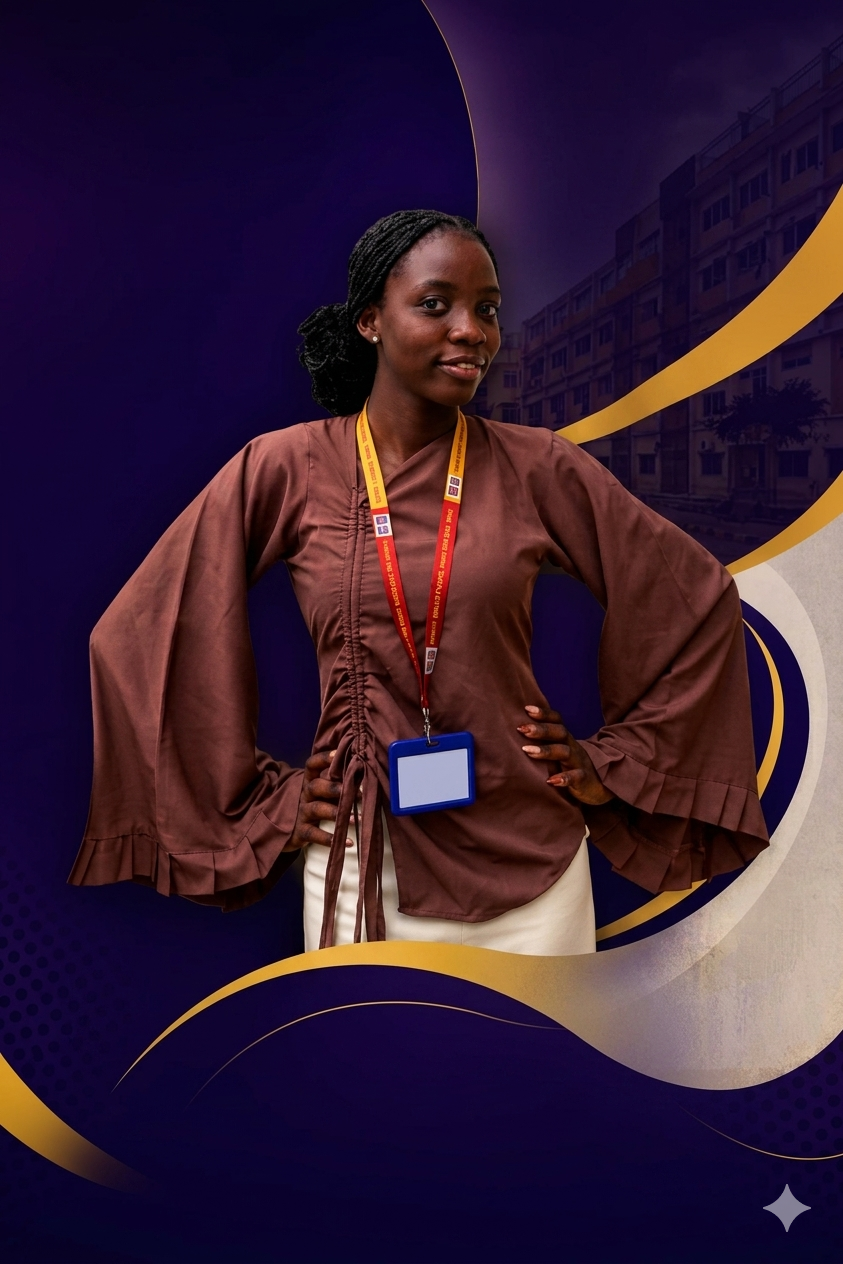
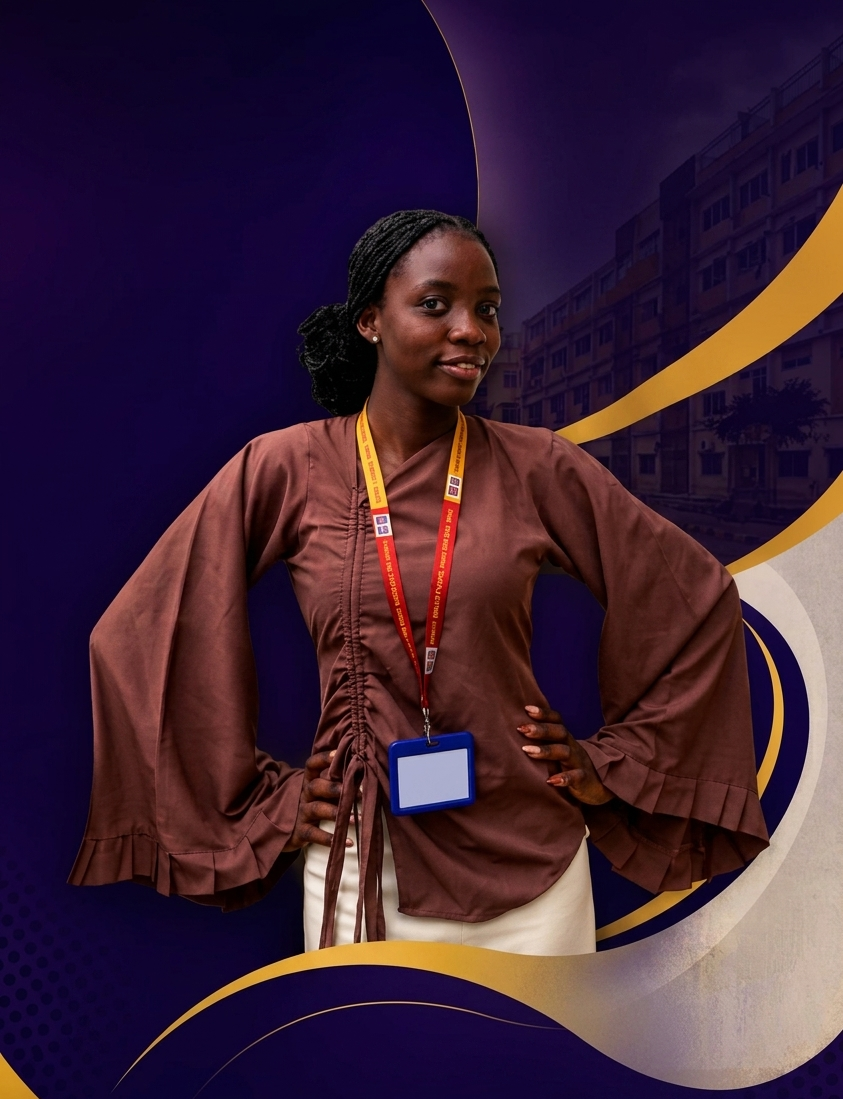
finished he image crop and background chagne

diff --git a/index.html b/index.html
@@ -10,18 +10,15 @@
             padding: 0;
             box-sizing: border-box;
         }
-
         :root {
-            --bg-grey: #e8e8e8; /* Premium Charcoal Grey */
-            --card-grey: #334155; /* Slightly lighter slate grey for contrast */
-            --white: #FFFFFF;
-            --text-main: #f8fafc;
-            --text-muted: #cbd5e1;
-            --accent-gold: #fbbf24;
-            --accent-gold-hover: #f59e0b;
-            --border-color: #475569;
+            --bg-light-grey: #f8fafc; /* Premium Soft Light Grey */
+            --card-white: #ffffff; /* Crisp White for Card Surfaces */
+            --text-dark: #0f172a; /* Deep Slate Charcoal for High Readability */
+            --text-muted: #475569;
+            --accent-gold: #b45309; /* Deepened Gold for Flawless Contrast on Light BG */
+            --accent-gold-hover: #78350f;
+            --border-color: #e2e8f0;
         }
-
         body {
             font-family: -apple-system, BlinkMacSystemFont, 'Segoe UI', Roboto, sans-serif;
             background-color: var(--bg-grey);
@@ -29,7 +26,6 @@
             line-height: 1.6;
             overflow-x: hidden;
         }
-
         /* ========== NAVBAR ========== */
         .navbar {
             background-color: var(--bg-grey);
@@ -595,7 +591,7 @@
                     </div>
                 </div>
                 <div id="successSection" class="success-message">
-                    <h3>Deployment Secured. 💛</h3>
+                    <h3>Deployment Secured. </h3>
                     <p>You've officially joined the cohort backing the digital upgrade. We will ping your inbox the exact moment the server goes live.</p>
                     <button class="btn-vote" style="width: 100%;" onclick="closeModal()">Back to Platform Preview</button>
                 </div>
